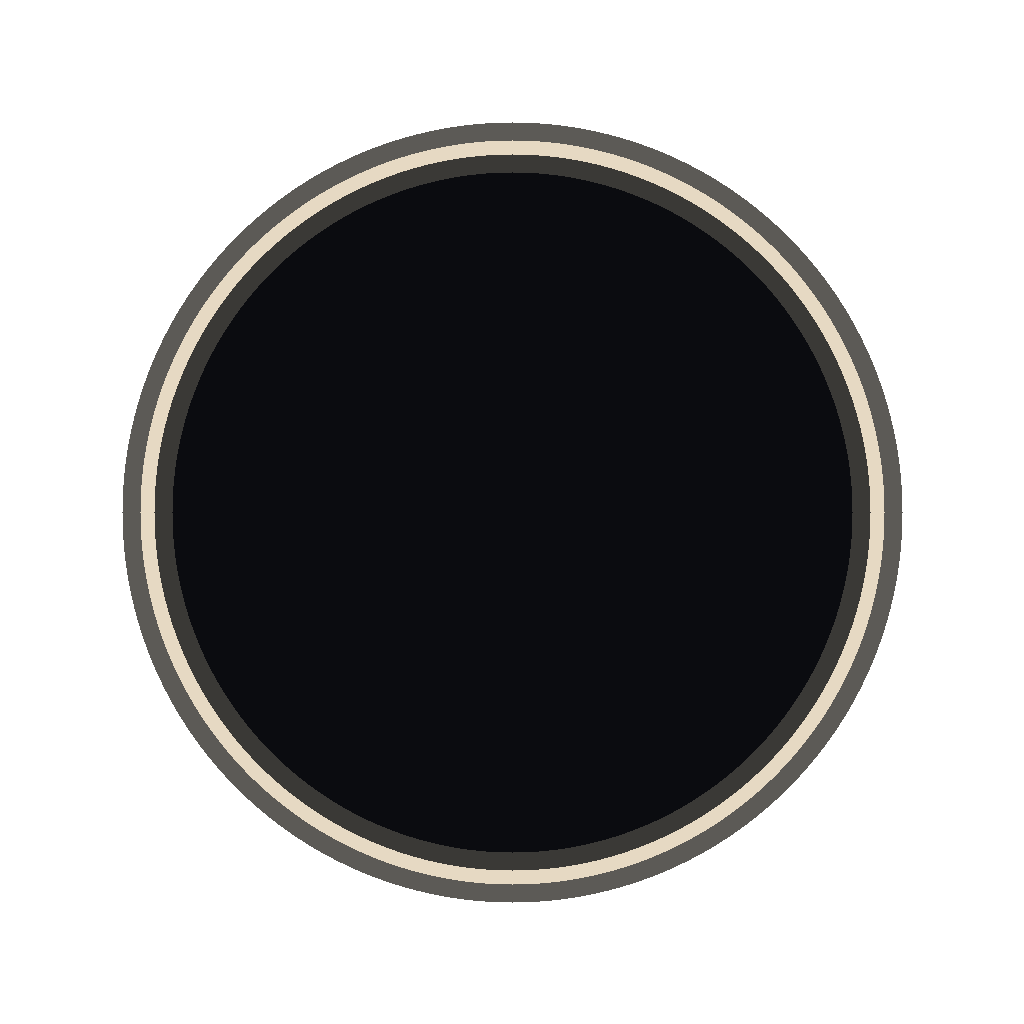
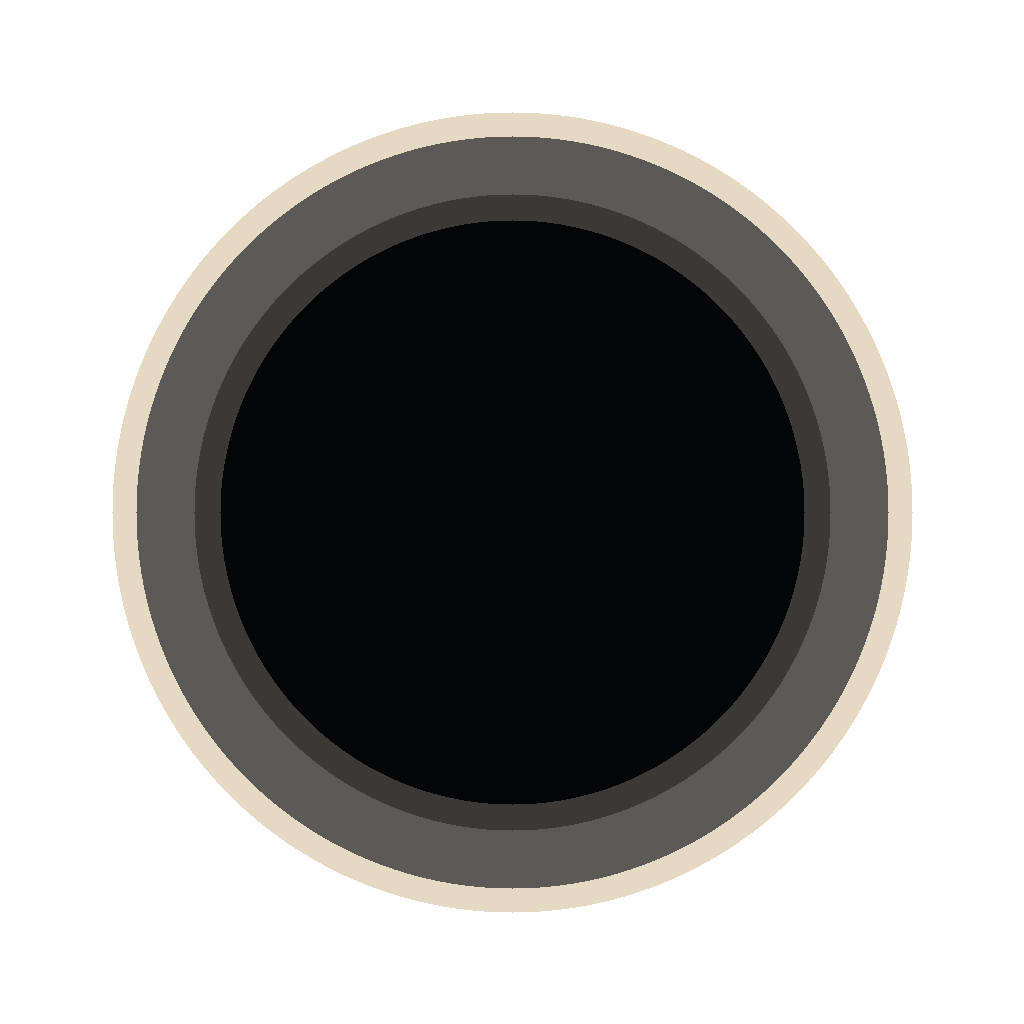
Fix pit, doors, and HUD against the Game anti-reference.
Pit is a Void-deep disk with a thick Ash rim and a thin Bone hairline, scaled so the fill reads. Doors are flush masonry lancets with large circular Ember or cracked seals and no hallway throat. HUD dump is a 1280x130 bar with seals, glyph, and map; doors stay hidden.

Changed region(s): [[0.0938, 0.0938, 0.9062, 0.9062]]

diff --git a/tools/gen_look_pass.py b/tools/gen_look_pass.py
@@ -13,6 +13,7 @@ SPR = ROOT / "assets" / "sprites"
 ENV = ROOT / "assets" / "env"
 
 VOID = (0x0B, 0x0C, 0x10, 255)
+VOID_DEEP = (0x04, 0x05, 0x07, 255)
 ASH = (0x5C, 0x5A, 0x56, 255)
 ASH_DARK = (0x3A, 0x39, 0x36, 255)
 BONE = (0xE6, 0xD9, 0xC3, 255)
@@ -180,26 +181,21 @@ def _voussoirs(a: np.ndarray, outer: np.ndarray, cx: int, y0: int, half: int) ->
 
 
 def door_cell(kind: str, locked: bool) -> Image.Image:
-    # Tall lancet cell (~200×167 in-game). Squat 92px slabs read as gray shields.
-    # Solid masonry face — a punched hole read as a portal.
-    w, h = 384, 320
+    # Flush wall-band lancet (~200×100). A Void throat read as a hallway notch;
+    # a squat filled slab read as a gray shield. Masonry face + huge circular seal.
+    w, h = 384, 192
     cell = new(w, h)
     a = arr_of(cell)
-    cx, y0, y1 = 192, 6, 314
-    half = 148
+    cx, y0, y1 = 192, 6, 186
+    half = 168
     huge = kind == "start"
     ribs = 5 if huge else (4 if kind == "boss" else 3)
     if huge:
-        half = 154
+        half = 172
     outer = arch_mask(h, w, cx, y0, y1, half)
     _masonry(a, outer)
     _voussoirs(a, outer, cx, y0, half)
-    # Pointed gothic throat — an archway, not a filled shield and not a round portal.
-    # Opening is a lancet (same family as the frame), sitting in the lower body.
-    throat = arch_mask(h, w, cx, y0 + 150, y1 - 6, max(half - 58, 12))
-    paint_mask(a, throat, VOID)
-    paint_mask(a, outline(throat) & outer, BONE_DIM)
-    inlay = arch_mask(h, w, cx, y0 + 14, y1 - 6, max(half - 14, 8))
+    inlay = arch_mask(h, w, cx, y0 + 12, y1 - 8, max(half - 16, 8))
     paint_mask(a, outline(inlay) & outer, BONE_DIM)
     for i in range(ribs):
         t = (i + 1) / (ribs + 1)
@@ -207,27 +203,27 @@ def door_cell(kind: str, locked: bool) -> Image.Image:
         for ox in (0, 1, 2):
             xx = x + ox
             if 0 <= xx < w:
-                col = outer[:, xx] & ~throat[:, xx]
+                col = outer[:, xx]
                 a[col, xx] = BONE_DIM if ox == 0 else (0x1A, 0x19, 0x18, 255)
     if 0 <= y1 < h:
         a[y1, outer[y1]] = ASH
         if y1 - 1 >= 0:
             a[y1 - 1, outer[y1 - 1]] = ASH_DARK
     cell.paste(from_arr(a))
-    # Circular seal sits in the tympanum (masonry above the throat), not in the opening.
-    seal_y = 102
+    # Huge circular seal on the wall-band face (lower 2/3). No Bone halo.
+    seal_y = 118
     if huge:
-        seal_r = 48 if locked else 42
+        seal_r = 52 if locked else 46
     elif kind == "boss":
-        seal_r = 44 if locked else 38
+        seal_r = 48 if locked else 42
     else:
-        seal_r = 40 if locked else 36
+        seal_r = 44 if locked else 40
     cracked_seal(cell, cx, seal_y, seal_r, locked, huge)
     return cell
 
 
 def write_doors() -> None:
-    cw, ch = 384, 320
+    cw, ch = 384, 192
     sheet = new(cw * 4, ch * 2)
     kinds = ["start", "combat", "npc", "boss"]
     for col, kind in enumerate(kinds):
@@ -312,15 +308,17 @@ def write_hearts() -> None:
 
 
 def write_pit() -> None:
+    # Filled Void-deep disk (darker than the floor) + thick Ash rim + thin Bone hairline.
+    # A 12px Bone hoop on VOID read as a white circle on black.
     n = 1024
     a = np.zeros((n, n, 4), dtype=np.uint8)
     yy, xx = np.ogrid[:n, :n]
     d2 = (xx - n // 2) ** 2 + (yy - n // 2) ** 2
-    outer, bone, ash, hole = 390, 372, 358, 340
-    paint_mask(a, (d2 <= outer * outer) & (d2 > bone * bone), ASH)
+    bone, ash, shade, hole = 400, 376, 318, 292
     paint_mask(a, (d2 <= bone * bone) & (d2 > ash * ash), BONE)
-    paint_mask(a, (d2 <= ash * ash) & (d2 > hole * hole), ASH_DARK)
-    paint_mask(a, d2 <= hole * hole, VOID)
+    paint_mask(a, (d2 <= ash * ash) & (d2 > shade * shade), ASH)
+    paint_mask(a, (d2 <= shade * shade) & (d2 > hole * hole), ASH_DARK)
+    paint_mask(a, d2 <= hole * hole, VOID_DEEP)
     from_arr(a).save(ENV / "pit.png")
 
 
@@ -410,9 +408,9 @@ def main() -> None:
     SPR.mkdir(parents=True, exist_ok=True)
     ENV.mkdir(parents=True, exist_ok=True)
     only = set(sys.argv[1:])
-    # Default: doors + hearts only. Do not churn pit / shots / Penitent sheets.
+    # Default: doors + hearts + pit. Do not churn shots / Penitent sheets.
     if not only:
-        only = {"doors", "hearts"}
+        only = {"doors", "hearts", "pit"}
     if "all" in only:
         only = {"doors", "shots", "hearts", "pit", "player", "env"}
     if "doors" in only:

diff --git a/README.md b/README.md
@@ -47,7 +47,7 @@ At the Threshold, pick **Caim** or **Lilith** (same hearts, speed, and fire rate
 
 The last pair stays highlighted on restart. HUD shows `Caim · Normal` or `Lilith · Normal`, or just **Bebê Chorão**.
 
-Four hearts (vessel drops can raise the cap to six). Hit = a short invuln blink, not a vacation. Trash enemies drop about half the time: brimstone hearts, ember (damage-up), rare vessel (max-heart), or a shot mod (pierce / rapid / heavy / burn). Drops pulse so they read on the ash floor. Only the **current room** draws and collides its door arches; a neighbor never stamps a second frame into the shared opening. Arches sit on the 64px wall ColorRect: width = the 200px opening, depth = 167px (`WALL` 64 + `DOOR_REVEAL` 103), inset 51px from the gap center toward the room. Cell is 384×320 so the circular seal stays circular. Doors stay shut until the room is clear. Die and the floor rewinds. Beat the boss for a short ending, then restart if you want it again.
+Four hearts (vessel drops can raise the cap to six). Hit = a short invuln blink, not a vacation. Trash enemies drop about half the time: brimstone hearts, ember (damage-up), rare vessel (max-heart), or a shot mod (pierce / rapid / heavy / burn). Drops pulse so they read on the ash floor. Only the **current room** draws and collides its door arches; a neighbor never stamps a second frame into the shared opening. Arches sit on the 64px wall ColorRect: width = the 200px opening, depth = 100px (`WALL` 64 + `DOOR_REVEAL` 36), inset 18px from the gap center toward the room. Cell is 384×192 so the circular Ember / cracked seal stays circular. The Threshold pit is a Void-deep disk with a thick Ash rim and a thin Bone hairline (not a white hoop). Doors stay shut until the room is clear. Die and the floor rewinds. Beat the boss for a short ending, then restart if you want it again.
 
 The Threshold has a **buraco** (Void hole, thin Ash/Bone lip — not a reused floor tile). Step in and you **drop** — teleport to the deep south room. No heart loss on the drop. The boss RING special is a fire-wisp annulus with a safe inner disk and **no pit**.
 

diff --git a/LOOK-PASS-FIX.md b/LOOK-PASS-FIX.md
@@ -10,19 +10,19 @@ Aligns the floor to `VISUAL-BRIEF.md`. Gameplay PASS is unchanged: current-room 
 | Shots | Soft round Ember dots / tears | Ember diamond + Bone ring only, hard edges |
 | HUD | Diamond hearts, Ember frame crests, rect minimap | Bone seals, Ash/Bone frame, circular nodes, Ember diamond glyph |
 | Start | Gold chrome, cute Bebé as product face | Penitent (hooded, no face). Ember on one confirm CTA |
-| Pit | Gray halo, Ember rim | Void hole, thin Ash/Bone lip, transparent outside |
+| Pit | Gray halo, Ember rim; white hoop on black | Void-deep filled disk, thick Ash rim, thin Bone hairline |
 | Palette | Gold heat `#FFBA08`, brown-black ash | Void / Ash / Bone / Ember / Wound only |
 
 ## What changed (files)
 
 - `scripts/palette.gd` — locked five colors. `EMBER_HOT` no longer gold. `WOUND` is the damage red.
-- `assets/sprites/doors.png` — tall gothic masonry lancets (384×320 cells), First Gate heavier, circular Ember / cracked seals with no Bone halo.
+- `assets/sprites/doors.png` — flush gothic masonry lancets (384×192 cells) on the wall band, circular Ember / cracked seals, no hallway throat.
+- `assets/env/pit.png` — Void-deep filled disk, thick Ash rim, thin Bone hairline.
 - `assets/sprites/shots.png` — diamond + ring rows only.
 - `assets/sprites/hearts.png` — circular Bone seals + Ember diamond glyph. Hit = rim chips, never a red X.
 - `assets/sprites/player.png` / `player_f.png` / `baby.png` — Penitent language.
-- `assets/env/pit.png` — Void mouth, Ash/Bone lip.
 - `assets/sprites/env.png` — Void / Ash, no brown brick band.
-- `scripts/room.gd` — Ash wall band, Void floor, gothic fallback, throat faces into the room (crown on the outer wall), pit fallback without Ember rim.
+- `scripts/room.gd` — Ash wall band, Void floor, flush gothic fallback, pit fallback with Void-deep fill + Ash/Bone rim.
 - `scripts/bullet.gd` — two silhouettes; pulse stays inside the shape.
 - `scripts/ui.gd` / `minimap.gd` / `run_pick.gd` / `player.gd` — HUD, start card, Penitent fallbacks.
 - `gate/` — full-res stills for doors, shots, HUD, start, pit.
